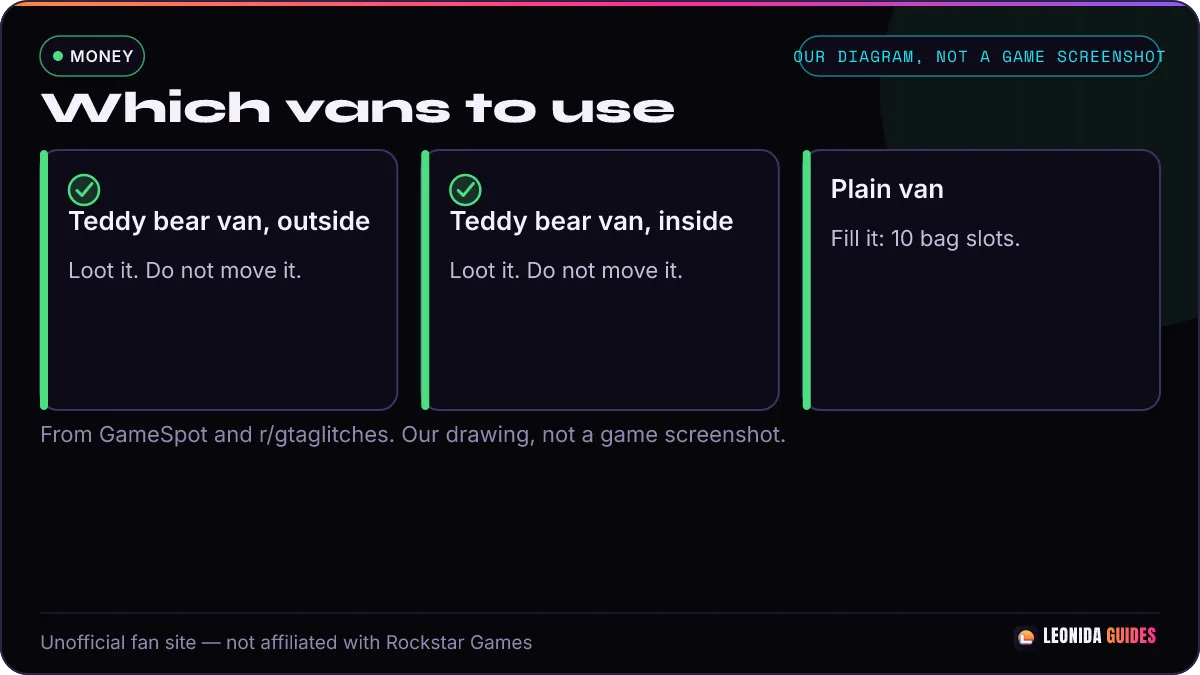
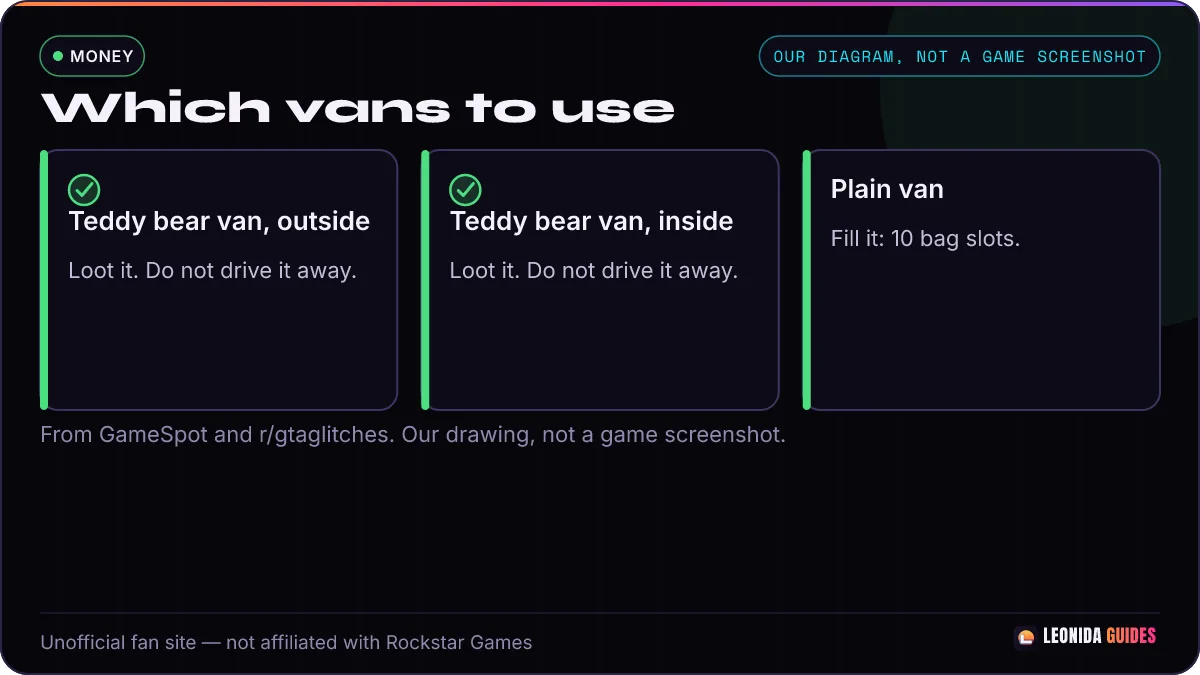
content: auto-publish 2026-11-26T07:38:07.224Z

Changed region(s): [[0.6167, 0.0311, 0.9867, 0.1244], [0.4933, 0.3733, 0.6167, 0.4356], [0.185, 0.3733, 0.2775, 0.4356]]

diff --git a/content/gta-6-money-glitch.md b/content/gta-6-money-glitch.md
@@ -15,7 +15,7 @@ sources:
   - https://support.rockstargames.com/articles/sN5pEdFYZdlvijKXd6xpJ/grand-theft-auto-vi-launch-updates-ps5-xbox-series-x-or-s
   - https://www.videogameschronicle.com/news/grand-theft-auto-6-has-received-a-new-patch-which-fixes-autosaving/
   - https://www.polygon.com/gta-6-update-today-ver-01002002-where-is-ps5-xbox-download-size-patch-notes/
-updated: 2026-11-25
+updated: 2026-11-26
 published: 2026-11-25
 status: live
 publish: true
@@ -70,7 +70,7 @@ GameSpot says **Tyrone**, a fence in Vice City you meet in Chapter 3, pays a hig
 8. Put both bags in the back of a **plain van parked there** (not a teddy bear van). GameSpot says it has **10 slots**, about **$106,000** when full.
 9. Keep going until the van is full.
 
-**Do not move the teddy bear vans.** A player in the original thread says the loot stopped coming back after they drove one outside.
+**Do not drive the teddy bear vans away.** The [original post](https://www.reddit.com/r/gtaglitches/comments/1y1gou5/gta_6_unlimited_money_red_barn_apollo_aggregates/) says so, and [u/OWLICIOUSS](https://www.reddit.com/r/gtaglitches/comments/1y1gou5/gta_6_unlimited_money_red_barn_apollo_aggregates/19t155zjxgngl/) says the loot stopped coming back after they moved one outside. [u/lilsteve68's optimised route](https://www.reddit.com/r/gtaglitches/comments/1y3y1ny/gta_6_infinite_money_glitch_optimised/) does move both vans inside the warehouse, so the sources disagree: moving them a little inside may be OK.
 
 **No switch?** The original poster's other trigger: **Save Game**, then **Load Game** on the same save, and drive back. Players also say the loot comes back if you drive toward the Vapid dealership and loop back ([u/densestport](https://www.reddit.com/r/gtaglitches/comments/1y1gou5/gta_6_unlimited_money_red_barn_apollo_aggregates/19syaihj1i20w/)), or drive away for 15-20 seconds ([u/JR3456](https://www.reddit.com/r/gtaglitches/comments/1y1gou5/gta_6_unlimited_money_red_barn_apollo_aggregates/19szkzbdvuu9u/)). Two players give a distance: [u/M4YON](https://www.reddit.com/r/gtaglitches/comments/1y1gou5/gta_6_unlimited_money_red_barn_apollo_aggregates/19t0utqw97a2t/) says about 0.32 miles; [u/LeatherSignature6293](https://www.reddit.com/r/gtaglitches/comments/1y3y1ny/gta_6_infinite_money_glitch_optimised/19t4afhtoxof4/) says 0.5 miles sometimes works and 0.3 miles can work too, but not every time.
 
@@ -104,7 +104,7 @@ GameSpot's total: **20 bags in two vans plus 4 carried = about $254,400**, in **
 - **Your partner sells to the wrong fence.** u/lilsteve68 says to take them to the right fence **in person twice**. After that, they go there on their own.
 - **Payment says "pending".** GameSpot says this happens if your BuckMe credit limit is still low. Do more main missions. The money arrives later.
 - **Bags stow into your car on their own.** [u/rdjh](https://www.reddit.com/r/gtaglitches/comments/1y3y1ny/gta_6_infinite_money_glitch_optimised/19t45ragkh7tw/) says to reload your save, drop the bags before you switch, then pick them up again.
-- **Loot does not come back.** Make sure your partner is far away, not next to you. Players say leaving the area further, or a save and load, fixes it.
+- **Loot does not come back.** Make sure your partner is far away, not next to you. The [original post](https://www.reddit.com/r/gtaglitches/comments/1y1gou5/gta_6_unlimited_money_red_barn_apollo_aggregates/) says leaving the area further, or a save and load, fixes it.
 
 ## Is it patched?
 
@@ -149,6 +149,7 @@ Related: [GTA 6 fences and stash bags](/money/gta-6-fences-stash-bags/) · [GTA 
 
 | Date | What changed |
 |---|---|
+| 2026-11-26 08:33 CET | Named who says not to drive the teddy bear vans away, and noted that u/lilsteve68's route disagrees. Updated the two diagrams. |
 | 2026-11-25 22:31 CET | Status set to mixed: players disagree since the update. Fixed the Quick answer fragment and quoted "doesn't work anymore" accurately. |
 | 2026-11-25 21:37 CET | Fixed sourcing and credits after SEARCH QA: named the right sources, stated disagreements, cited official patch notes, and added comment links. |
 | 2026-11-25 | Page created from GameSpot, r/gtaglitches posts and comments, and the 01.002.002 patch notes. Not tested by us. |

diff --git a/content/gta-6-ammo-refill-glitch.md b/content/gta-6-ammo-refill-glitch.md
@@ -102,10 +102,10 @@ When your gun clicks empty in the middle of a fight, [GameSpot](https://www.game
 If you want endless ammo just for fun after beating the game, [GameSpot](https://www.gamespot.com/articles/all-gta-6-cheats-and-how-to-unlock-them/) and [PC Gamer](https://www.pcgamer.com/games/grand-theft-auto/gta-6-cheats-list/) list three official ammo cheats:
 
 - **Max Ammo:** Refills all ammo to full.
-- **Infinite Ammo:** Ammo never runs out, though you still reload.
+- **Infinite Ammo:** Ammo never runs out.
 - **No Reload:** Ammo never runs out and you never reload.
 
-All three cheats only work **after you finish the main story** and earn shooting-range medals ([GameSpot](https://www.gamespot.com/articles/all-gta-6-cheats-and-how-to-unlock-them/), [PC Gamer](https://www.pcgamer.com/games/grand-theft-auto/gta-6-cheats-list/)). Turning on any cheat **disables saving and trophies/achievements** for that play session.
+All three cheats only work **after you finish the main story** and earn shooting-range medals ([GameSpot](https://www.gamespot.com/articles/all-gta-6-cheats-and-how-to-unlock-them/), [PC Gamer](https://www.pcgamer.com/games/grand-theft-auto/gta-6-cheats-list/)). Turning on any cheat **disables saving and trophies/achievements** for that play session ([GameSpot](https://www.gamespot.com/articles/all-gta-6-cheats-and-how-to-unlock-them/), [PC Gamer](https://www.pcgamer.com/games/grand-theft-auto/gta-6-cheats-list/)).
 
 ## Side note: the partner ammo refill trick (Unconfirmed: one player report)
 
@@ -158,6 +158,7 @@ Related: [GTA 6 car trunk storage](/cars/gta-6-car-trunk-storage/) · [GTA 6 con
 | 2026-11-25 | Page created from u/Sinx0x's post and comments. Not tested by us. |
 | 2026-11-25 (21:34 CET) | Added unconfirmed notices, source disagreements, ammo system, and confirmed ammo methods. |
 | 2026-11-25 (22:31 CET) | Reworked into a general out-of-ammo guide after QA: moved the unconfirmed partner trick to a short side note near the end, updated title/meta/Quick answer/images, fixed Inven Global vs GamesRadar+ credit, fixed LMG wording, fixed SMG/hand-over FAQ and table against GamesRadar+, backed gun-store ammo with Dexerto and GamesRadar+, and simplified sentences for easier reading. |
+| 2026-11-26 (08:32 CET) | After QA: credited ammo-cheat saving and trophies to GameSpot and PC Gamer in the step-3 image and the page text, and dropped the unsourced “you still reload” line from Infinite Ammo. |
 
 ---
 *Unofficial fan site, not affiliated with Rockstar Games or Take-Two.*

diff --git a/site-images/_slots-report.md b/site-images/_slots-report.md
@@ -2,7 +2,7 @@
 
 - content slots: 255
 - specs: 255
-- rendered this run: 3
+- rendered this run: 2
 - no-spec: 0
 - errors: 0
 - missing: none
